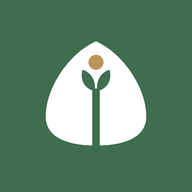
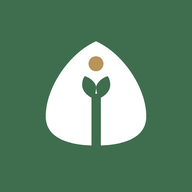
155 보완2: 앱 아이콘 새싹 잎 모양을 원본에 더 맞춤(피트 지적 — 두 잎이 가운데서 만나고 작은 틈), 원본 대비 모양 겹침 92%
Claude-Session: https://claude.ai/code/session_01Av7xmGvufoCKB7F6raS8o2

Changed region(s): [[0.4062, 0.3125, 0.5938, 0.7812], [0.4688, 0.2812, 0.5312, 0.3125]]

diff --git a/app/index.html b/app/index.html
@@ -13,8 +13,8 @@
 <meta name="apple-mobile-web-app-title" content="효숲{{name}}">
 <title>효숲 {{name}}</title>
 <link rel="manifest" href="manifest.webmanifest">
-<link rel="icon" href="icon-192.png?v=62">
-<link rel="apple-touch-icon" href="icon-192.png?v=62">
+<link rel="icon" href="icon-192.png?v=63">
+<link rel="apple-touch-icon" href="icon-192.png?v=63">
 <link rel="preconnect" href="https://fonts.googleapis.com">
 <link rel="stylesheet" href="https://fonts.googleapis.com/css2?family=Noto+Sans+KR:wght@400;500;700;800&family=Gothic+A1:wght@800&display=swap">
 <style>
@@ -3270,7 +3270,7 @@ function mock(k) {
     more: `<div style="display:flex;gap:4px"><div class="rb"><i>⧉</i>복사</div><div class="rb"><i>▭</i>기기로 보내기</div><div class="rb"><i>☰</i>읽기 목록</div><div class="rb"><i class="hl">⌄</i><b>더 보기</b></div></div>`,
     addHome: `<div style="border-radius:12px;overflow:hidden"><div class="li" style="opacity:.55">▦ QR 코드 만들기</div><div class="li hl" style="font-weight:800">${ICON_PLUS} 홈 화면에 추가</div><div class="li" style="opacity:.55">✎ 새로운 빠른 메모에 추가</div></div>`,
     addBtn: `<div style="display:flex;justify-content:space-between;align-items:center;background:#fff;border-radius:12px;padding:8px 10px"><span style="color:#1a73e8">취소</span><b>홈 화면에 추가</b><span class="hl" style="color:#1a73e8;font-weight:800;padding:2px 8px">추가</span></div>
-      <div style="display:flex;align-items:center;gap:8px;margin-top:8px"><img src="icon-192.png?v=62" width="30" height="30" style="border-radius:8px" alt=""><span>효숲 {{name}}</span></div>`,
+      <div style="display:flex;align-items:center;gap:8px;margin-top:8px"><img src="icon-192.png?v=63" width="30" height="30" style="border-radius:8px" alt=""><span>효숲 {{name}}</span></div>`,
     safariBar: `<div class="bar" style="justify-content:space-between"><span>‹</span><span style="flex:1;text-align:center;opacity:.7">${esc(location.host)}</span><span class="hl" style="padding:2px 8px;font-weight:800">⋯</span></div><div style="font-size:11px;color:var(--muted);margin-top:6px;text-align:center">화면 맨 아래 주소창 오른쪽</div>`,
     safariShare: `<div style="border-radius:12px;overflow:hidden"><div class="li hl" style="font-weight:800">${sh} 공유</div><div class="li" style="opacity:.55">☆ 책갈피에 추가</div></div>`,
     kakao: `<div class="bar" style="justify-content:space-between"><span>✕</span><span style="flex:1;text-align:center;opacity:.7">${esc(location.host)}</span><span class="hl" style="padding:2px 8px;font-weight:800">⋮</span></div><div style="font-size:11px;color:var(--muted);margin-top:6px;text-align:center">카톡 화면 오른쪽 위 또는 아래</div>`,
@@ -3315,7 +3315,7 @@ function openInstall(auto) {
   el.style.cssText = "position:fixed;inset:0;z-index:50;background:rgba(20,26,46,.45);display:flex;align-items:flex-end;justify-content:center";
   el.innerHTML = `<div style="background:#fff;width:min(560px,100%);border-radius:26px 26px 0 0;padding:22px 20px calc(26px + env(safe-area-inset-bottom));box-shadow:0 -10px 30px rgba(20,26,46,.25);max-height:88vh;overflow:auto">
       <div style="display:flex;align-items:center;gap:12px">
-        <img src="icon-192.png?v=62" alt="" width="44" height="44" style="border-radius:12px;box-shadow:0 3px 10px rgba(30,40,90,.15)">
+        <img src="icon-192.png?v=63" alt="" width="44" height="44" style="border-radius:12px;box-shadow:0 3px 10px rgba(30,40,90,.15)">
         <div style="flex:1;min-width:0"><div style="font-size:12px;color:var(--muted)">효숲 {{name}} · 앱처럼 쓰기</div><div style="font-size:18px;font-weight:800;margin-top:2px">${esc(title)}</div></div>
         <button onclick="closeInstall()" aria-label="닫기" style="border:0;background:#EEF0F6;width:34px;height:34px;border-radius:17px;font-size:18px;color:var(--muted);cursor:pointer">×</button></div>
       ${MOCK_CSS}<div style="margin-top:6px">${body}</div>
